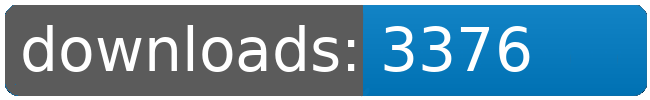
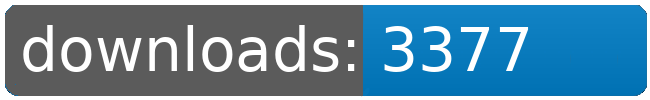
dl log written

Changed region(s): [[0.7692, 0.24, 0.8308, 0.72]]

diff --git a/README.md b/README.md
@@ -54,8 +54,8 @@
 		<td>3323</td>
 		<td>3351</td>
 		<td>3369</td>
-		<td>3376</td>
-		<td>+ 7</td>
+		<td>3377</td>
+		<td>+ 8</td>
 	</tr>
 	<tr>
 		<td>Korunak.Defense.Drones</td>
@@ -109,8 +109,8 @@
 		<td></td>
 		<td></td>
 		<td></td>
-		<td>28914</td>
-		<td>61</td>
+		<td>28915</td>
+		<td>62</td>
 	</tr>
 </table>
 </sub></sup>
@@ -201,8 +201,8 @@
 		<td>3323</td>
 		<td>3351</td>
 		<td>3369</td>
-		<td>3376</td>
-		<td>+ 7</td>
+		<td>3377</td>
+		<td>+ 8</td>
 	</tr>
 	<tr>
 		<td>Zone.of.Control</td>
@@ -223,8 +223,8 @@
 		<td></td>
 		<td></td>
 		<td></td>
-		<td>28914</td>
-		<td>61</td>
+		<td>28915</td>
+		<td>62</td>
 	</tr>
 </table>
 </sub></sup>
@@ -232,7 +232,6 @@
 <table>
 	<tr>
 		<td> </td>
-		<td>2026-01-24</td>
 		<td>2026-01-25</td>
 		<td>2026-01-26</td>
 		<td>2026-01-27</td>
@@ -241,10 +240,10 @@
 		<td>2026-01-30</td>
 		<td>2026-01-31</td>
 		<td>2026-02-01</td>
+		<td>2026-02-02</td>
 	</tr>
 	<tr>
 		<td>page views</td>
-		<td>20</td>
 		<td>86</td>
 		<td>35</td>
 		<td>16</td>
@@ -253,10 +252,10 @@
 		<td>94</td>
 		<td>9</td>
 		<td>20</td>
+		<td>9</td>
 	</tr>
 	<tr>
 		<td>unique visitors</td>
-		<td>8</td>
 		<td>10</td>
 		<td>12</td>
 		<td>7</td>
@@ -265,6 +264,7 @@
 		<td>45</td>
 		<td>6</td>
 		<td>8</td>
+		<td>7</td>
 	</tr>
 </table>
 <br>
@@ -278,8 +278,8 @@
 	</tr>
 	<tr>
 		<td>2025-10-13</td>
-		<td>2411</td>
-		<td>773</td>
+		<td>2420</td>
+		<td>780</td>
 		<td>105</td>
 		<td>45</td>
 	</tr>
@@ -292,8 +292,8 @@
 	</tr>
 	<tr>
 		<td>113</td>
-		<td>21.34</td>
-		<td>6.84</td>
+		<td>21.42</td>
+		<td>6.90</td>
 		<td></td>
 		<td></td>
 	</tr>
